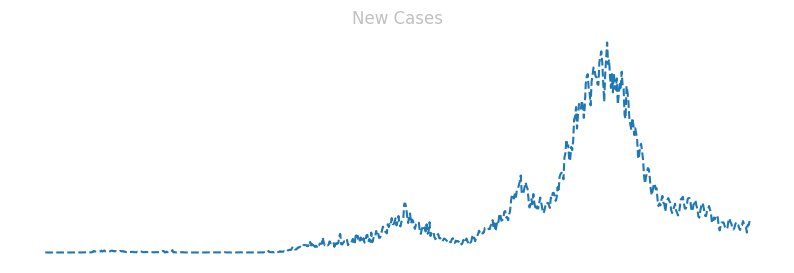
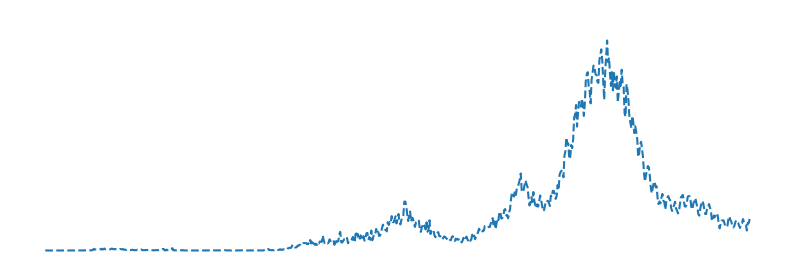
Add files via upload

diff --git a/visual.py b/visual.py
@@ -8,22 +8,27 @@ col_list = ["date", "cases_new"]
 cases_df = pd.read_csv(cases_url, usecols=col_list)
 cases_today = cases_df
 
-# Death Data
+# Death data
 death_url = "https://raw.githubusercontent.com/MoH-Malaysia/covid19-public/main/epidemic/deaths_malaysia.csv"
 col_list = ["date", "deaths_new"]
 death_df = pd.read_csv(death_url, usecols=col_list)
-death_today = death_df.tail(n=1)
+death_today = death_df
 
 
-# Plot
+# Case Plot configurations
 x1 = cases_today.date
 y1 = cases_today.cases_new
-
-# Plot configurations
 plt.figure(figsize=(10,3)) 
 plt.plot(x1, y1, linestyle = 'dashed')
-
-# Save plot with transparent background
 plt.axis('off')
-plt.title("New Cases", color='silver')
+plt.title("New Cases", color='w')
 plt.savefig('cases_graph.png', transparent=True, bbox_inches='tight')
+
+# Death Plot configurations
+x2 = death_today.date
+y2 = death_today.deaths_new
+plt.figure(figsize=(10,3)) 
+plt.plot(x2, y2, linestyle = 'dashed', color="red")
+plt.axis('off')
+plt.title("New Deaths", color='w')
+plt.savefig('deaths_graph.png', transparent=True, bbox_inches='tight')

diff --git a/README.md b/README.md
@@ -35,5 +35,9 @@ View deployment here: <br>
 <table class="JSON-TO-HTML-TABLE"><thead><tr><th class="country-th">Country</th><th class="last-updated-th">Last updated</th><th class="cases-th">Cases</th><th class="deaths-th">Deaths</th><th class="generated-th">Generated</th></tr></thead><tbody ><tr ><td class="country-td td_text">Malaysia</td><td class="last-updated-td td_text">2022-01-20</td><td class="cases-td td_num">3764</td><td class="deaths-td td_num">22</td><td class="generated-td td_text">2022-01-21 12:35:55.301153+08:00</td></tr></tbody></table>
 <!-- MARKDOWN-AUTO-DOCS:END -->
 
+## New Cases Graph
 ![new_cases_graph](./cases_graph.png)
+![deaths_graph](./deaths_graph.png)
+
+
 
